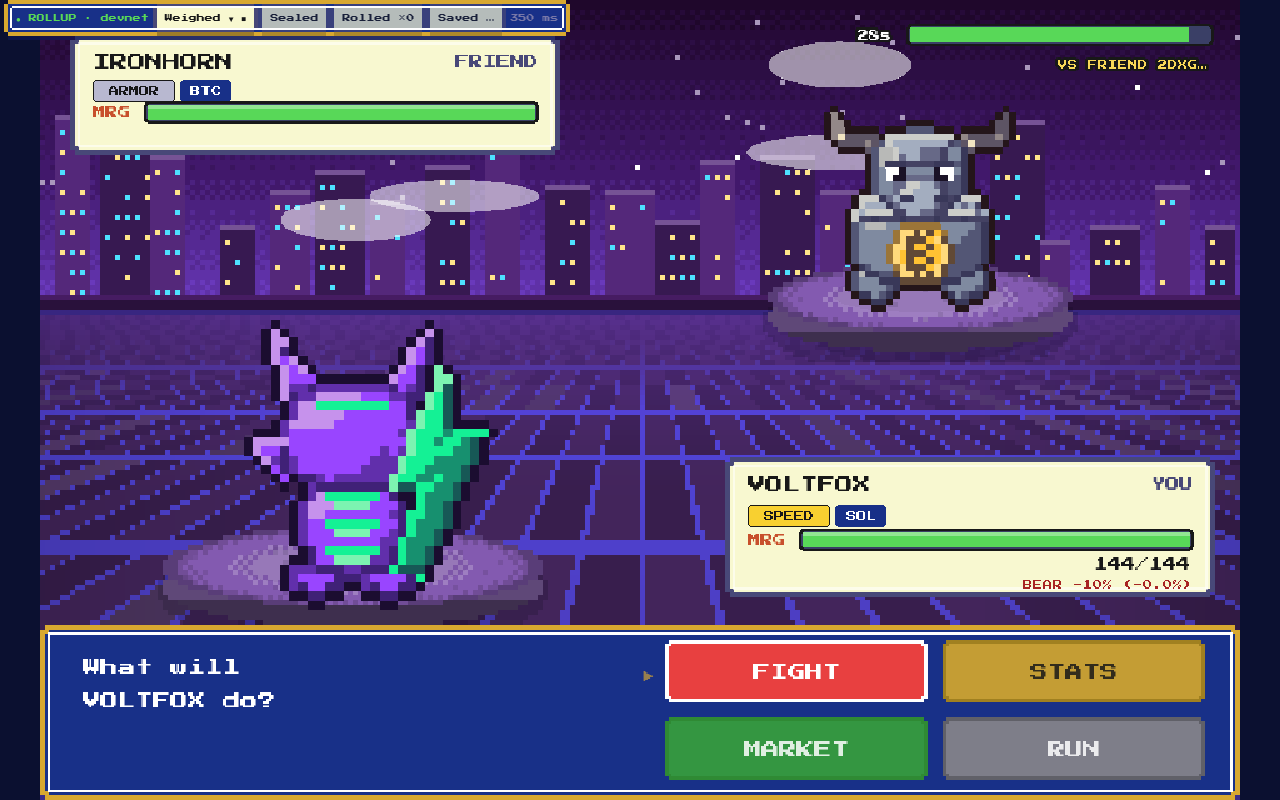
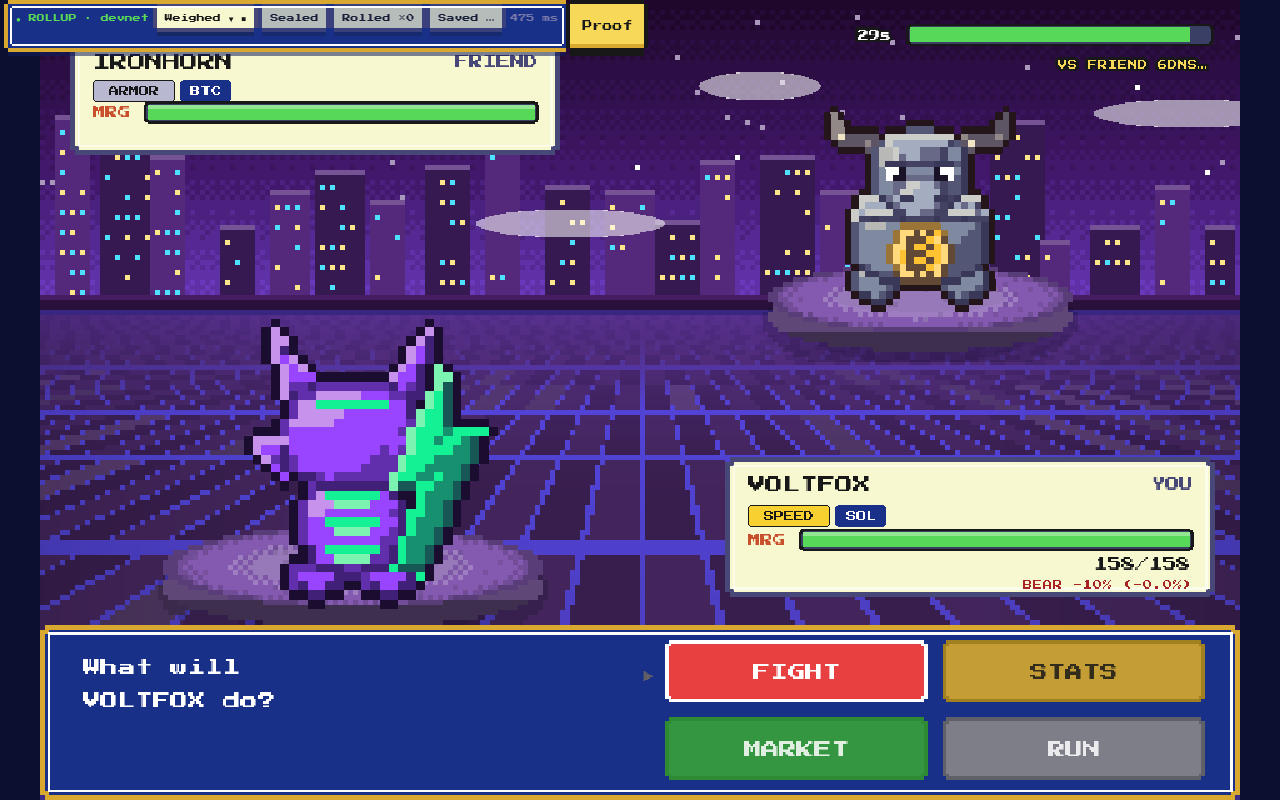
Beginner Trainee tier, easier Rookie, Momentum, varied roster

diff --git a/apps/web/app/components/chain/ChainBridge.tsx b/apps/web/app/components/chain/ChainBridge.tsx
@@ -29,7 +29,8 @@ export default function ChainBridge() {
     setBattleSourceFactory(async (p, f) => {
       try {
         const r = useChain.getState().trainer?.rating ?? 1000;
-        const tier = r < 1050 ? 0 : r < 1150 ? 1 : 2; // beginners meet a Rookie House Agent; it gets sharper as you climb
+        // New players meet a passive Trainee; the House Agent sharpens as you climb: Trainee < 960 < Rookie < 1050 < Pro < 1150 < Champion
+        const tier = r < 960 ? 3 : r < 1050 ? 0 : r < 1150 ? 1 : 2;
         const s = new ChainBattleSource(p, f, tier);
         await s.ready();
         return s;

diff --git a/crates/duel-rules/examples/vs_human.rs b/crates/duel-rules/examples/vs_human.rs
@@ -1,0 +1,46 @@
+//! How hard is each House Agent tier for a human? Models three human styles vs each tier.
+//! `cargo run -p duel-rules --example vs_human --release`
+use duel_rules::*;
+
+struct Rng(u64);
+impl Rng {
+    fn next(&mut self) -> u64 {
+        self.0 = self.0.wrapping_add(0x9E3779B97F4A7C15);
+        let mut z = self.0;
+        z = (z ^ (z >> 30)).wrapping_mul(0xBF58476D1CE4E5B9);
+        z = (z ^ (z >> 27)).wrapping_mul(0x94D049BB133111EB);
+        z ^ (z >> 31)
+    }
+}
+
+/// style 0 = uniformly random, 1 = "aggressive" (Pump 70%), 2 = thinking human (bot logic at Champion, a ceiling)
+fn human_pick(style: u8, s: &MatchState, rnd: &[u8; 32]) -> u8 {
+    match style {
+        0 => rnd[12] % 4,
+        1 => if rnd[12] % 10 < 7 { rnd[13] % 2 } else { 2 + rnd[13] % 2 },
+        _ => bot_pick(s, 0, rnd, Tier::Champion),
+    }
+}
+
+fn main() {
+    let mut rng = Rng(7);
+    let names = ["Trainee", "Rookie", "Pro", "Champion"];
+    let styles = ["random", "aggressive", "ceiling(Champion-level)"];
+    for style in 0..3u8 {
+        for (ti, t) in [Tier::Trainee, Tier::Rookie, Tier::Pro, Tier::Champion].iter().enumerate() {
+            let (mut w, mut n, mut turns) = (0u32, 0u32, 0u32);
+            for a in 0..8u8 { for b in 0..8u8 { for _ in 0..300 {
+                let mut s = MatchState::new(a, b).unwrap();
+                while !s.is_over() {
+                    let mut rnd = [0u8; 32];
+                    for c in rnd.chunks_mut(8) { c.copy_from_slice(&rng.next().to_le_bytes()); }
+                    let p0 = human_pick(style, &s, &rnd);
+                    let p1 = bot_pick(&s, 1, &rnd, *t);
+                    resolve_turn(&mut s, [p0, p1], &rnd, [0, 0]);
+                }
+                n += 1; turns += s.turn as u32; if s.winner == 0 { w += 1; }
+            }}}
+            println!("{:<26} vs {:<9} human win rate {:>5.1}%  avg turns {:.1}", styles[style as usize], names[ti], 100.0 * w as f64 / n as f64, turns as f64 / n as f64);
+        }
+    }
+}

diff --git a/crates/duel-rules/src/tests.rs b/crates/duel-rules/src/tests.rs
@@ -655,7 +655,7 @@ fn bot_never_invalid_and_deterministic() {
 #[test]
 fn bot_exploration_thresholds() {
     let s = st(0, 1);
-    for (tier, thr) in [(Tier::Rookie, 128u8), (Tier::Pro, 64), (Tier::Champion, 26)] {
+    for (tier, thr) in [(Tier::Rookie, 190u8), (Tier::Pro, 64), (Tier::Champion, 26)] {
         assert_eq!(tier.threshold(), thr);
         for slot in 0..4u8 {
             let r = rnd(|r| {
@@ -672,10 +672,10 @@ fn bot_exploration_thresholds() {
     }
     // rates over all 256 values of rnd[8]: 50% / 25% / ~10%
     let pct = |t: Tier| (0..=255u8).filter(|&v| v < t.threshold()).count() * 100 / 256;
-    assert_eq!((pct(Tier::Rookie), pct(Tier::Pro), pct(Tier::Champion)), (50, 25, 10));
+    assert_eq!((pct(Tier::Rookie), pct(Tier::Pro), pct(Tier::Champion)), (74, 25, 10));
     assert_eq!(Tier::from_u8(0), Some(Tier::Rookie));
     assert_eq!(Tier::from_u8(2), Some(Tier::Champion));
-    assert!(Tier::from_u8(3).is_none());
+    assert!(Tier::from_u8(4).is_none());
 }
 
 #[test]
@@ -894,4 +894,20 @@ fn momentum_adds_ten_percent_per_level_and_roundtrips_in_state_bytes() {
     s.f[1].momentum = 3;
     let back = MatchState::from_bytes(&s.to_bytes()).unwrap();
     assert_eq!(back, s);
+}
+
+#[test]
+fn trainee_is_passive_valid_and_deterministic() {
+    let s = st(0, 1);
+    assert_eq!(Tier::from_u8(3), Some(Tier::Trainee));
+    let mut counts = [0u32; 4];
+    for v in 0..=255u8 {
+        let r = rnd(|r| r[9] = v);
+        let p = bot_pick(&s, 1, &r, Tier::Trainee);
+        assert!(p < 4);
+        assert_eq!(p, bot_pick(&s, 1, &r, Tier::Trainee));
+        counts[p as usize] += 1;
+    }
+    // Hedge + Leverage dominate (6/8), strikes are rare (2/8)
+    assert!(counts[2] + counts[3] > counts[0] + counts[1] * 2);
 }

diff --git a/crates/duel-rules/src/bot.rs b/crates/duel-rules/src/bot.rs
@@ -3,21 +3,24 @@ use crate::{damage, eff, species, DamageIn, MatchState, MoveKind, RND_USED};
 /// House Agent difficulty = exploration noise.
 #[derive(Clone, Copy, Debug, PartialEq, Eq)]
 pub enum Tier {
-    /// 50% random.
+    /// ~75% random.
     Rookie,
     /// 25% random.
     Pro,
     /// ~10% random.
     Champion,
+    /// Beginner opponent: always random, and passive (leans on Hedge/Leverage, which Pump punishes).
+    Trainee,
 }
 
 impl Tier {
     /// `rnd[8] < threshold` => random pick from `rnd[9] % 4`.
     pub const fn threshold(self) -> u8 {
         match self {
-            Tier::Rookie => 128,
+            Tier::Rookie => 190,
             Tier::Pro => 64,
             Tier::Champion => 26,
+            Tier::Trainee => 255,
         }
     }
     pub fn from_u8(v: u8) -> Option<Tier> {
@@ -25,6 +28,7 @@ impl Tier {
             0 => Some(Tier::Rookie),
             1 => Some(Tier::Pro),
             2 => Some(Tier::Champion),
+            3 => Some(Tier::Trainee),
             _ => None,
         }
     }
@@ -43,6 +47,15 @@ pub fn bot_pick(st: &MatchState, side: u8, rnd: &[u8; 32], tier: Tier) -> u8 {
     let _ = RND_USED;
     if side > 1 {
         return 0;
+    }
+    if tier == Tier::Trainee {
+        // 1/8 Signature, 1/8 Coverage, 3/8 Hedge, 3/8 Leverage: easy to read and to punish with Pump.
+        return match rnd[9] % 8 {
+            0 => 0,
+            1 => 1,
+            2..=4 => 2,
+            _ => 3,
+        };
     }
     if rnd[8] < tier.threshold() {
         return rnd[9] % 4;

diff --git a/programs/pokestonksss/src/lib.rs b/programs/pokestonksss/src/lib.rs
@@ -151,7 +151,7 @@ pub mod pokestonksss {
     /// Starts an instant practice battle against the House Agent.
     pub fn start_practice(ctx: Context<StartPractice>, species: u8, opp_species: u8, tier: u8) -> Result<()> {
         let now = Clock::get()?.unix_timestamp;
-        require!(species < MAX_SPECIES && opp_species < MAX_SPECIES && tier <= 2, GameError::BadInput);
+        require!(species < MAX_SPECIES && opp_species < MAX_SPECIES && tier <= 3, GameError::BadInput);
         let a = &mut ctx.accounts.arena;
         require!(startable(a, now), GameError::WrongPhase);
         let host = ctx.accounts.signer.key();

diff --git a/programs/pokestonksss/src/consts.rs b/programs/pokestonksss/src/consts.rs
@@ -17,8 +17,8 @@ pub const STUCK_RESET_SECS: i64 = 90;
 pub const MAX_SPECIES: u8 = 8;
 pub const NO_PICK: u8 = 255;
 pub const START_RATING: u16 = 1000;
-/// Practice opponents' Elo by House Agent tier (Rookie, Pro, Champion).
-pub const BOT_RATING: [i32; 3] = [800, 1000, 1200];
+/// Practice opponents' Elo by House Agent tier (Rookie, Pro, Champion, Trainee).
+pub const BOT_RATING: [i32; 4] = [800, 1000, 1200, 700];
 
 // Arena phases
 pub const PHASE_IDLE: u8 = 0;

diff --git a/programs/pokestonksss/src/engine.rs b/programs/pokestonksss/src/engine.rs
@@ -49,7 +49,7 @@ pub fn settle(a: &Arena, st: &MatchState, host: &mut Trainer, guest: Option<&mut
     };
     match guest {
         None => {
-            let bot = BOT_RATING[(a.tier as usize).min(2)];
+            let bot = BOT_RATING[(a.tier as usize).min(3)];
             bump(host, winner == 0, bot, st.f[1].species);
         }
         Some(g) => {
